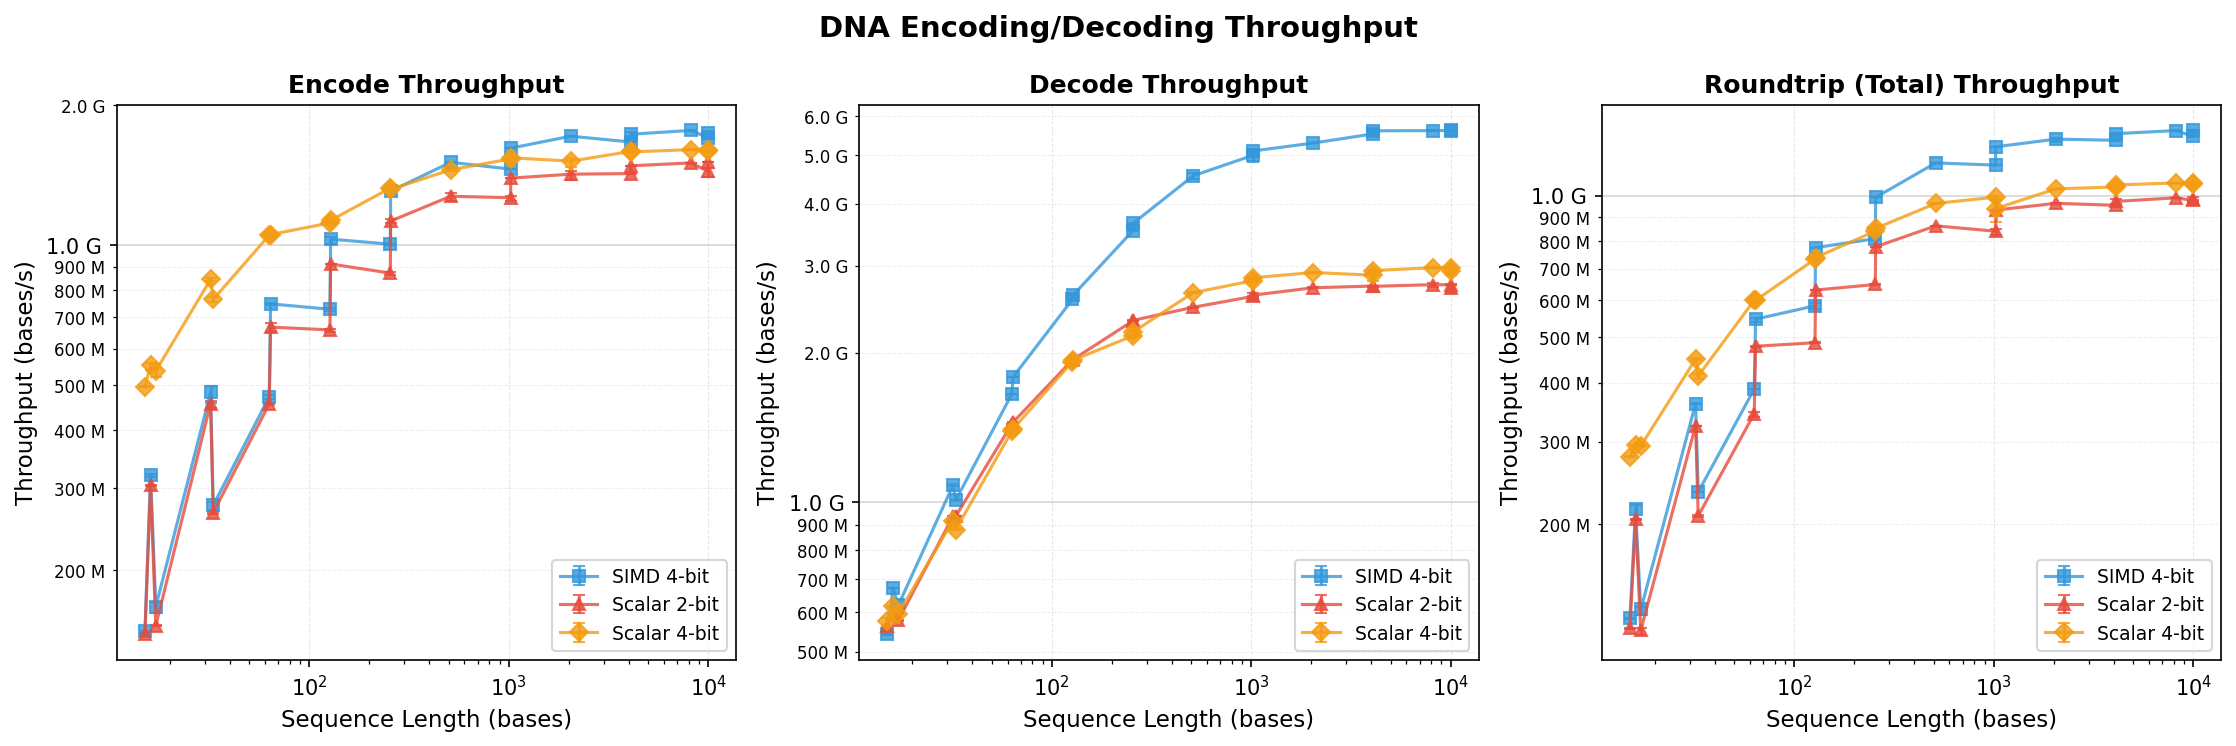
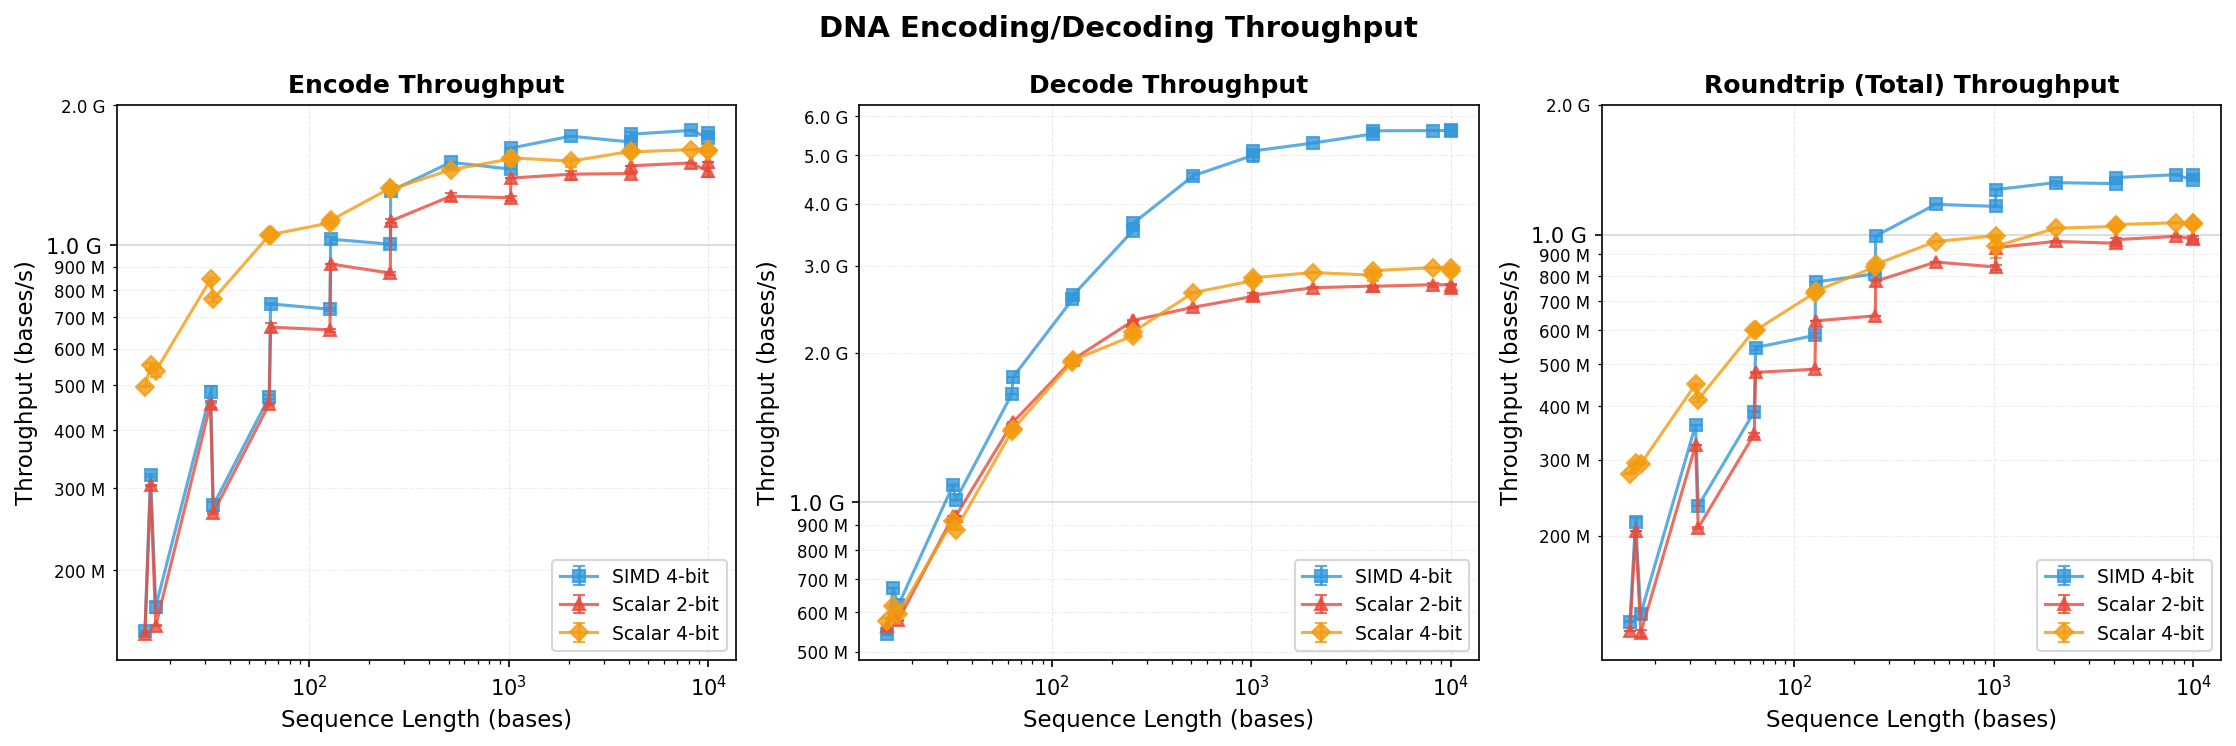
Updated benchmark plots

Changed region(s): [[0.6789, 0.1542, 0.9875, 0.8633], [0.6789, 0.2466, 0.7406, 0.555], [0.6789, 0.1233, 0.7097, 0.1542]]

diff --git a/plot_benchmarks.py b/plot_benchmarks.py
@@ -212,6 +212,10 @@ def plot_throughput(results: dict, output_file: str = "throughput_plot.png"):
         ax.grid(True, which="major", axis="x", alpha=0.3, linestyle="--", linewidth=0.5)
         ax.legend(loc="lower right", fontsize=9)
 
+        # Set Y-axis maximum for roundtrip to match encode scale
+        if operation == "roundtrip":
+            ax.set_ylim(top=2.0e9)
+
     plt.tight_layout()
     plt.savefig(output_file, dpi=150, bbox_inches="tight")
     print(f"Throughput plot saved to {output_file}")
